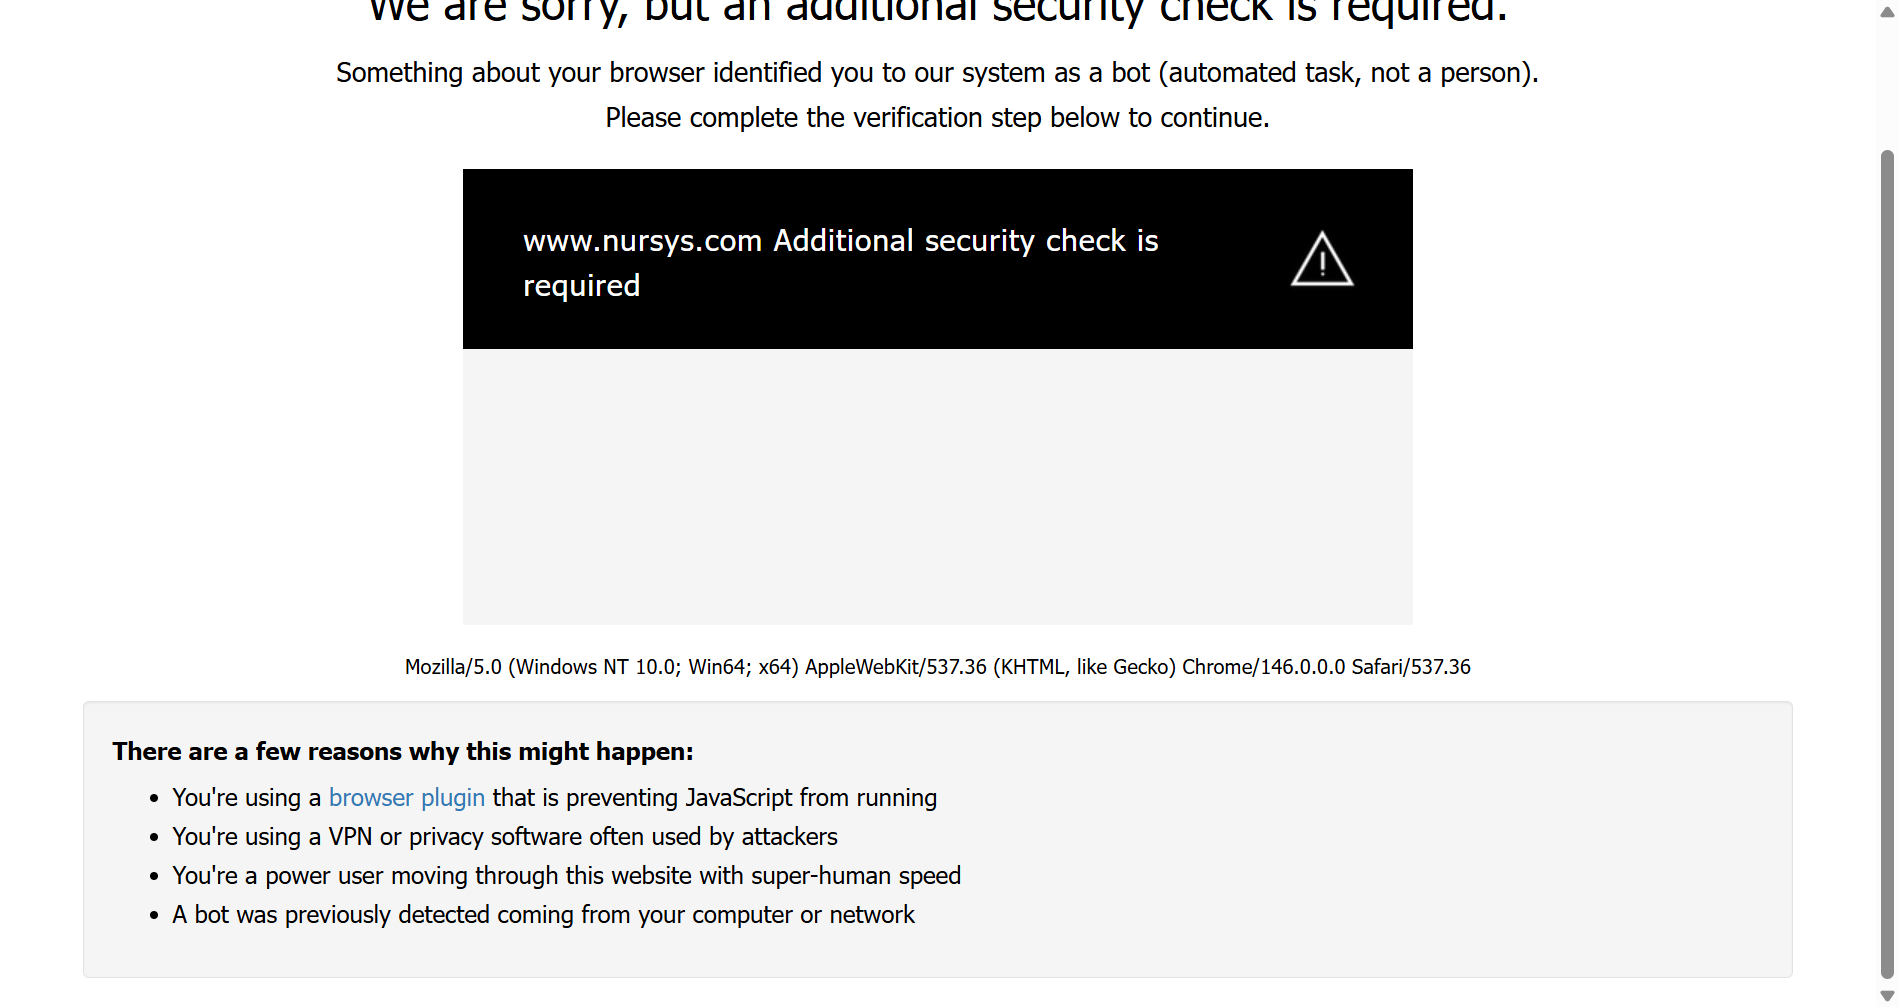
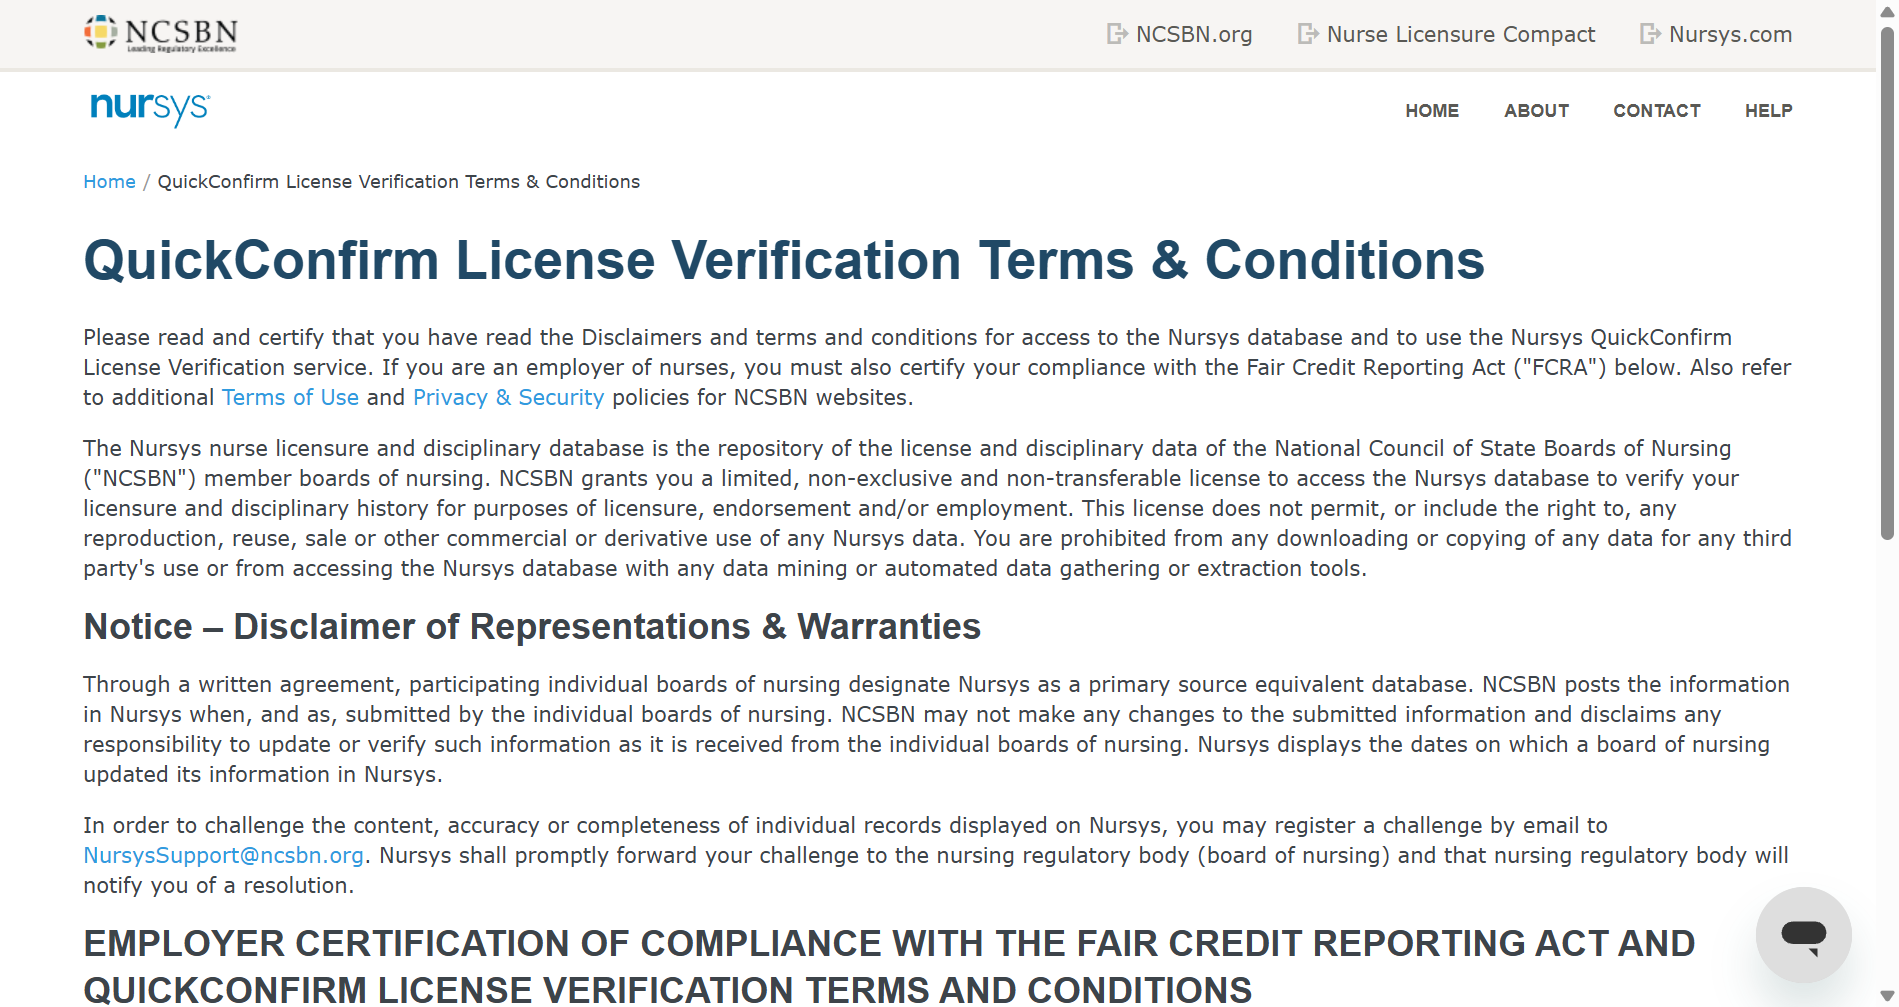
update the browser

diff --git a/src/lib/browser-verify.ts b/src/lib/browser-verify.ts
@@ -16,21 +16,32 @@ import AdmZip from "adm-zip";
 // Apply stealth patches — hides webdriver, chrome.runtime, permissions, plugins, etc.
 puppeteer.use(StealthPlugin());
 
-// ── CapSolver Chrome Extension setup ──────────────────────────────
-// Loads the CapSolver browser extension directly (bypasses broken plugin build).
-// The extension auto-detects and solves Cloudflare Turnstile + reCAPTCHA v2.
-const CAPSOLVER_API_KEY = process.env.CAPSOLVER_API_KEY;
-const HAS_CAPSOLVER = !!CAPSOLVER_API_KEY;
+// ── CapSolver Chrome Extension setup (lazy) ──────────────────────
+// Prepares the CapSolver extension on first use, not at import time,
+// so env vars loaded by Next.js or dotenv are available.
 let capsolverExtensionPath: string | undefined;
+let capsolverInitialized = false;
 
-if (HAS_CAPSOLVER) {
+function getCapsolverKey(): string | undefined {
+  return process.env.CAPSOLVER_API_KEY || undefined;
+}
+
+function ensureCapsolverExtension(): boolean {
+  if (capsolverInitialized) return !!capsolverExtensionPath;
+  capsolverInitialized = true;
+
+  const apiKey = getCapsolverKey();
+  if (!apiKey) {
+    console.log("[browser-verify] No CAPSOLVER_API_KEY — CAPTCHAs require manual solving");
+    return false;
+  }
+
   try {
     const zipPath = path.join(
       __dirname, "..", "..", "node_modules",
       "puppeteer-extra-plugin-capsolver", "src", "resources",
       "capsolver-extension-v1.15.3.zip"
     );
-    // Also check from cwd in case __dirname doesn't resolve correctly
     const altZipPath = path.join(
       process.cwd(), "node_modules",
       "puppeteer-extra-plugin-capsolver", "src", "resources",
@@ -38,44 +49,43 @@ if (HAS_CAPSOLVER) {
     );
     const resolvedZip = fs.existsSync(zipPath) ? zipPath : altZipPath;
 
-    if (fs.existsSync(resolvedZip)) {
-      const extDir = path.join(os.tmpdir(), "capsolver-extension");
-      if (!fs.existsSync(extDir)) fs.mkdirSync(extDir, { recursive: true });
-      new AdmZip(resolvedZip).extractAllTo(extDir, true);
-
-      // Inject API key into extension config
-      const configPath = path.join(extDir, "assets", "config.js");
-      if (fs.existsSync(configPath)) {
-        let config = fs.readFileSync(configPath, "utf8");
-        config = config.replace(/apiKey: '',/, `apiKey: '${CAPSOLVER_API_KEY}',`);
-        config = config.replace(/appId: '',/, `appId: 'F9E44D7F-A254-4D75-87F6-54B84EE16676',`);
-        config = config.replace(/reCaptchaMode: 'click',/, `reCaptchaMode: 'click',`);
-        config = config.replace(/reCaptchaMode: 'token',/, `reCaptchaMode: 'click',`);
-        // Disable proxy in extension (we handle proxies separately if needed)
-        config = config.replace(/useProxy: true,/, `useProxy: false,`);
-        fs.writeFileSync(configPath, config);
-      }
-
-      // Add http://*/* permission to manifest so extension works on all sites
-      const manifestPath = path.join(extDir, "manifest.json");
-      if (fs.existsSync(manifestPath)) {
-        const manifest = JSON.parse(fs.readFileSync(manifestPath, "utf8"));
-        if (!manifest.permissions.includes("http://*/*")) {
-          manifest.permissions.push("http://*/*");
-          fs.writeFileSync(manifestPath, JSON.stringify(manifest));
-        }
-      }
-
-      capsolverExtensionPath = extDir;
-      console.log("[browser-verify] CapSolver extension prepared at:", extDir);
-    } else {
+    if (!fs.existsSync(resolvedZip)) {
       console.warn("[browser-verify] CapSolver extension zip not found — falling back to manual CAPTCHA solving");
+      return false;
     }
+
+    const extDir = path.join(os.tmpdir(), "capsolver-extension");
+    if (!fs.existsSync(extDir)) fs.mkdirSync(extDir, { recursive: true });
+    new AdmZip(resolvedZip).extractAllTo(extDir, true);
+
+    // Inject API key into extension config
+    const configPath = path.join(extDir, "assets", "config.js");
+    if (fs.existsSync(configPath)) {
+      let config = fs.readFileSync(configPath, "utf8");
+      config = config.replace(/apiKey: '',/, `apiKey: '${apiKey}',`);
+      config = config.replace(/appId: '',/, `appId: 'F9E44D7F-A254-4D75-87F6-54B84EE16676',`);
+      config = config.replace(/reCaptchaMode: 'token',/, `reCaptchaMode: 'click',`);
+      config = config.replace(/useProxy: true,/, `useProxy: false,`);
+      fs.writeFileSync(configPath, config);
+    }
+
+    // Add http://*/* permission to manifest so extension works on all sites
+    const manifestPath = path.join(extDir, "manifest.json");
+    if (fs.existsSync(manifestPath)) {
+      const manifest = JSON.parse(fs.readFileSync(manifestPath, "utf8"));
+      if (!manifest.permissions.includes("http://*/*")) {
+        manifest.permissions.push("http://*/*");
+        fs.writeFileSync(manifestPath, JSON.stringify(manifest));
+      }
+    }
+
+    capsolverExtensionPath = extDir;
+    console.log("[browser-verify] CapSolver extension prepared — CAPTCHAs will be auto-solved");
+    return true;
   } catch (err) {
     console.warn("[browser-verify] Failed to prepare CapSolver extension:", err);
+    return false;
   }
-} else {
-  console.log("[browser-verify] No CAPSOLVER_API_KEY — CAPTCHAs require manual solving");
 }
 import { notifyCaptchaRequired, notifyVerificationProgress } from "./os-notify";
 
@@ -160,31 +170,106 @@ async function launchBrowser(forceVisible = false, withCapsolver = false): Promi
   });
 }
 
-/** Wait for the CapSolver extension to signal it solved a CAPTCHA.
- *  The extension sets window.captchaSolvedCallbackDone = true when done. */
-async function waitForCapsolverCallback(page: Page, timeout = 30000): Promise<boolean> {
-  const start = Date.now();
-  while (Date.now() - start < timeout) {
-    try {
-      const done = await page.evaluate(() => (window as any).captchaSolvedCallbackDone === true);
-      if (done) return true;
-    } catch {
-      // page.evaluate can fail during navigation — treat as solved
+/** Solve reCAPTCHA v2 via CapSolver REST API.
+ *  Extracts the sitekey from the page, sends it to CapSolver, polls for the token,
+ *  then injects the token into the page. Returns true if solved. */
+async function solveRecaptchaViaAPI(page: Page, pageUrl: string): Promise<boolean> {
+  const apiKey = getCapsolverKey();
+  if (!apiKey) return false;
+
+  // Extract the reCAPTCHA sitekey from the page
+  const sitekey = await page.evaluate(() => {
+    // Try the data-sitekey attribute on the reCAPTCHA div
+    const div = document.querySelector('.g-recaptcha[data-sitekey], [data-sitekey]');
+    if (div) return div.getAttribute('data-sitekey');
+    // Try extracting from the iframe src
+    const iframe = document.querySelector('iframe[src*="recaptcha"]') as HTMLIFrameElement;
+    if (iframe) {
+      const match = iframe.src.match(/[?&]k=([^&]+)/);
+      if (match) return match[1];
+    }
+    return null;
+  }).catch(() => null);
+
+  if (!sitekey) {
+    console.log("[browser-verify] Could not extract reCAPTCHA sitekey from page");
+    return false;
+  }
+  console.log("[browser-verify] reCAPTCHA sitekey:", sitekey);
+
+  // Step 1: Create task
+  const createRes = await fetch("https://api.capsolver.com/createTask", {
+    method: "POST",
+    headers: { "Content-Type": "application/json" },
+    body: JSON.stringify({
+      clientKey: apiKey,
+      task: {
+        type: "ReCaptchaV2TaskProxyLess",
+        websiteURL: pageUrl,
+        websiteKey: sitekey,
+      },
+    }),
+  });
+  const createData = await createRes.json() as any;
+
+  if (createData.errorId && createData.errorId !== 0) {
+    console.log("[browser-verify] CapSolver createTask error:", createData.errorDescription || createData.errorCode);
+    return false;
+  }
+
+  const taskId = createData.taskId;
+  if (!taskId) {
+    console.log("[browser-verify] CapSolver returned no taskId:", JSON.stringify(createData));
+    return false;
+  }
+  console.log("[browser-verify] CapSolver task created:", taskId);
+
+  // Step 2: Poll for result (max 60s)
+  for (let elapsed = 0; elapsed < 60000; elapsed += 3000) {
+    await wait(3000);
+    const resultRes = await fetch("https://api.capsolver.com/getTaskResult", {
+      method: "POST",
+      headers: { "Content-Type": "application/json" },
+      body: JSON.stringify({ clientKey: apiKey, taskId }),
+    });
+    const resultData = await resultRes.json() as any;
+
+    if (resultData.status === "ready") {
+      const token = resultData.solution?.gRecaptchaResponse;
+      if (!token) {
+        console.log("[browser-verify] CapSolver returned ready but no token");
+        return false;
+      }
+      console.log("[browser-verify] CapSolver solved reCAPTCHA! Token length:", token.length);
+
+      // Inject the token into the page
+      await page.evaluate((t: string) => {
+        const ta = document.querySelector<HTMLTextAreaElement>('textarea[name="g-recaptcha-response"]');
+        if (ta) {
+          ta.value = t;
+          ta.style.display = "block"; // some forms check visibility
+        }
+        // Also try calling the callback if grecaptcha is available
+        try {
+          const cb = (document.querySelector('.g-recaptcha') as any)?.getAttribute('data-callback');
+          if (cb && typeof (window as any)[cb] === 'function') {
+            (window as any)[cb](t);
+          }
+        } catch {}
+      }, token);
       return true;
     }
-    await wait(1000);
-  }
-  return false;
-}
 
-/** Inject the captchaSolvedCallback that the CapSolver extension calls after solving. */
-async function setupCapsolverCallback(page: Page): Promise<void> {
-  await page.evaluateOnNewDocument(() => {
-    (window as any).captchaSolvedCallbackDone = false;
-    (window as any).captchaSolvedCallback = () => {
-      (window as any).captchaSolvedCallbackDone = true;
-    };
-  });
+    if (resultData.errorId && resultData.errorId !== 0) {
+      console.log("[browser-verify] CapSolver solve error:", resultData.errorDescription || resultData.errorCode);
+      return false;
+    }
+
+    console.log(`[browser-verify] CapSolver polling... (${(elapsed / 1000 + 3).toFixed(0)}s)`);
+  }
+
+  console.log("[browser-verify] CapSolver solve timed out after 60s");
+  return false;
 }
 
 let snapCount = 0;
@@ -246,13 +331,12 @@ export async function captureNursysScreenshots(
   let reportPdfPath: string | undefined;
   let reportPdfBase64: string | undefined;
   let extractedReport: NursysBrowserReport | undefined;
+  // Initialize CapSolver extension on first call (reads env vars lazily)
+  const HAS_CAPSOLVER = ensureCapsolverExtension();
   const browser = await launchBrowser(true, HAS_CAPSOLVER); // visible + CapSolver extension if available
 
   try {
     const page = (await browser.pages())[0] || await browser.newPage();
-
-    // Set up CapSolver callback so we can detect when the extension solves a CAPTCHA
-    if (HAS_CAPSOLVER) await setupCapsolverCallback(page);
 
     // Remove automation traces
     await page.evaluateOnNewDocument(() => {
@@ -273,7 +357,7 @@ export async function captureNursysScreenshots(
       console.log("[browser-verify] Initial navigation timeout — checking page state...");
     }
     // Give the page time to render (Cloudflare pages load content via JS)
-    await wait(1500);
+    await wait(2500);
 
     // Check if security check / CAPTCHA page is showing
     let pageText = "";
@@ -281,6 +365,7 @@ export async function captureNursysScreenshots(
     try { pageText = await page.evaluate(() => document.body.innerText || ""); } catch {}
     try { pageHtml = await page.evaluate(() => document.body.innerHTML || ""); } catch {}
     const hasSearchForm = await page.$('#MainContent_txtLastName, input[id*="LastName"]').then((el) => !!el).catch(() => false);
+    const hasTermsContent = await page.$('#MainContent_lbtnContinue, a[id*="Continue"], a[id*="Agree"]').then((el) => !!el).catch(() => false);
     const pageTitle = await page.title().catch(() => "");
     const currentUrl = page.url();
 
@@ -288,6 +373,7 @@ export async function captureNursysScreenshots(
     console.log("[browser-verify] Page URL:", currentUrl);
     console.log("[browser-verify] Page title:", pageTitle);
     console.log("[browser-verify] Has search form:", hasSearchForm);
+    console.log("[browser-verify] Has terms content:", hasTermsContent);
     console.log("[browser-verify] Page text (first 200 chars):", pageText.slice(0, 200).replace(/\n/g, " "));
 
     const securityPatterns = /additional\s+security\s+check|click\s+to\s+verify|verify\s+you\s+are\s+human|security\s+check\s+is\s+required|identified.*as\s+a\s+bot|automated\s+task|Incomplete/i;
@@ -296,8 +382,8 @@ export async function captureNursysScreenshots(
       securityPatterns.test(pageText) ||
       securityPatterns.test(pageTitle) ||
       securityHtmlPatterns.test(pageHtml) ||
-      // Fallback: we're on the Nursys URL but there's no search form and no terms page
-      (!hasSearchForm && !currentUrl.includes("Terms") && currentUrl.includes("nursys.com"));
+      // Fallback: on Nursys URL but no real page content loaded (Cloudflare can serve at any URL, including /Terms)
+      (!hasSearchForm && !hasTermsContent && currentUrl.includes("nursys.com"));
     const isHardBlocked = /access\s+denied|error\s+15/i.test(pageText) && !isSecurityCheck;
 
     if (isHardBlocked) {
@@ -571,33 +657,15 @@ export async function captureNursysScreenshots(
 
     if (recaptchaFrame) {
       if (HAS_CAPSOLVER) {
-        // CapSolver extension auto-solves reCAPTCHA v2
-        console.log("[browser-verify] reCAPTCHA detected — CapSolver extension solving automatically...");
-
-        // Wait for CapSolver extension callback, then fall back to polling the token
-        const solved = await waitForCapsolverCallback(page, 30000);
+        // Solve reCAPTCHA v2 via CapSolver REST API
+        console.log("[browser-verify] reCAPTCHA detected — solving via CapSolver API...");
+        const solved = await solveRecaptchaViaAPI(page, page.url());
         if (solved) {
-          console.log("[browser-verify] reCAPTCHA solved by CapSolver!");
+          console.log("[browser-verify] reCAPTCHA solved by CapSolver API!");
           notifyVerificationProgress("Nursys® reCAPTCHA", "passed");
         } else {
-          // Callback didn't fire — check if extension solved it anyway (token in textarea)
-          console.log("[browser-verify] CapSolver callback timed out — polling for response token...");
-          let tokenFound = false;
-          for (let elapsed = 0; elapsed < 15000; elapsed += 2000) {
-            await wait(2000);
-            const hasToken = await page.evaluate(() => {
-              const ta = document.querySelector<HTMLTextAreaElement>('textarea[name="g-recaptcha-response"]');
-              return ta && ta.value.length > 0;
-            }).catch(() => false);
-            if (hasToken) { tokenFound = true; break; }
-          }
-          if (tokenFound) {
-            console.log("[browser-verify] reCAPTCHA solved (token detected)!");
-            notifyVerificationProgress("Nursys® reCAPTCHA", "passed");
-          } else {
-            console.log("[browser-verify] reCAPTCHA not solved within timeout");
-            notifyVerificationProgress("Nursys® reCAPTCHA", "timeout");
-          }
+          console.log("[browser-verify] CapSolver API failed to solve reCAPTCHA");
+          notifyVerificationProgress("Nursys® reCAPTCHA", "timeout");
         }
       } else {
         // No CapSolver — fall back to manual solving

diff --git a/scripts/test-browser-verify.ts b/scripts/test-browser-verify.ts
@@ -9,6 +9,10 @@
 
 import path from "path";
 import fs from "fs";
+import dotenv from "dotenv";
+
+// Load .env so CAPSOLVER_API_KEY and other vars are available outside Next.js
+dotenv.config({ path: path.join(__dirname, "..", ".env") });
 
 // We need to set up the module alias for @/ imports
 // since this runs outside of Next.js
